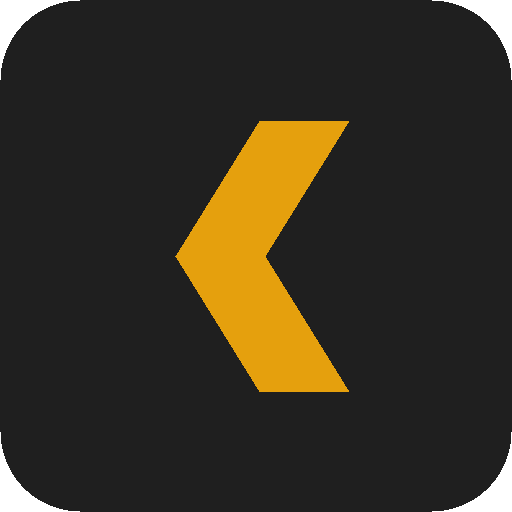
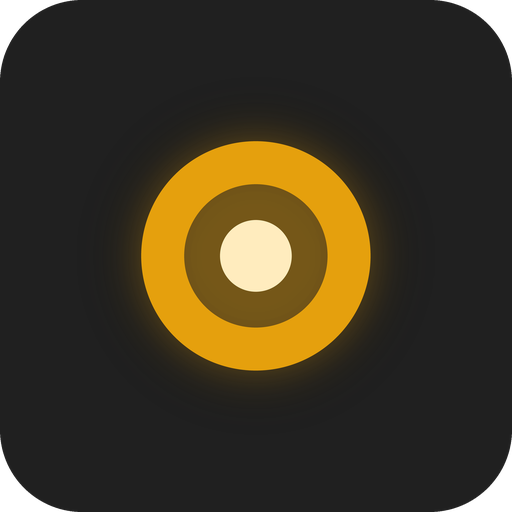
Rename the app to Lumen on Tizen
App name, page title, Plex product name, package file name and a new
Lumen icon. App id, cert profile and storage keys are unchanged so the
TV install is replaced in place.

Claude-Session: https://claude.ai/code/session_012wX6Z6cn5cAeXJQDf9CX4q

Changed region(s): [[0.25, 0.2188, 0.75, 0.7812]]

diff --git a/app/index.html b/app/index.html
@@ -3,7 +3,7 @@
 <head>
     <meta charset="utf-8">
     <meta name="viewport" content="width=1920, height=1080">
-    <title>Plex HDR</title>
+    <title>Lumen</title>
     <link rel="stylesheet" href="css/style.css">
     <!-- Samsung product APIs (AVPlay, productinfo). Resolved by the TV runtime; 404s harmlessly in a desktop browser. -->
     <script src="$WEBAPIS/webapis/webapis.js"></script>

diff --git a/app/js/online.js b/app/js/online.js
@@ -7,7 +7,7 @@ var Online = (function () {
     var TMDB = 'https://api.themoviedb.org/3';
     var TMDB_IMG = 'https://image.tmdb.org/t/p/';
     var OS = 'https://api.opensubtitles.com/api/v1';
-    var APP_UA = 'PlexHDR v0.3';
+    var APP_UA = 'Lumen v0.3';
 
     function keys() {
         var k = Util.store('keys') || {};

diff --git a/app/js/plex.js b/app/js/plex.js
@@ -2,7 +2,7 @@
 var Plex = (function () {
     'use strict';
 
-    var PRODUCT = 'Plex HDR (Tizen)';
+    var PRODUCT = 'Lumen (Tizen)';
     var VERSION = '0.2.0';
 
     var clientId = Util.store('clientId');

diff --git a/README.md b/README.md
@@ -1,4 +1,6 @@
-# Plex HDR for Tizen
+# Lumen for Tizen
+
+> Formerly "Plex HDR". The Tizen app id (`PlxHDRtzn0.PlexHDR`), the certificate profile name `PlexHDR` and the saved settings keys are unchanged, so reinstalling replaces the old app and keeps its sign-in.
 
 A small Plex client for Samsung Tizen TVs, built for a QN900B with a Q990C soundbar. It has one job: send the original file to the TV untouched (direct play), so the TV's own decoders handle HDR10+, and send Dolby audio to the soundbar wherever the TV allows it.
 
@@ -144,7 +146,7 @@ Retail Samsung TVs only install apps signed with a Samsung certificate that name
 cd tizen-plex
 TIZEN_PROFILE=PlexHDR ./scripts/build.sh <TV-IP>
 ```
-This packages `app/` into `PlexHDR.wgt`, signs it with your profile and installs it. **Plex HDR** then appears under Apps on the TV.
+This packages `app/` into `Lumen.wgt`, signs it with your profile and installs it. **Lumen** then appears under Apps on the TV.
 
 If you'd rather use the Tizen Studio GUI, import `app/` as a Tizen web project, then use Run As → Tizen Web Application with the TV selected.
 
